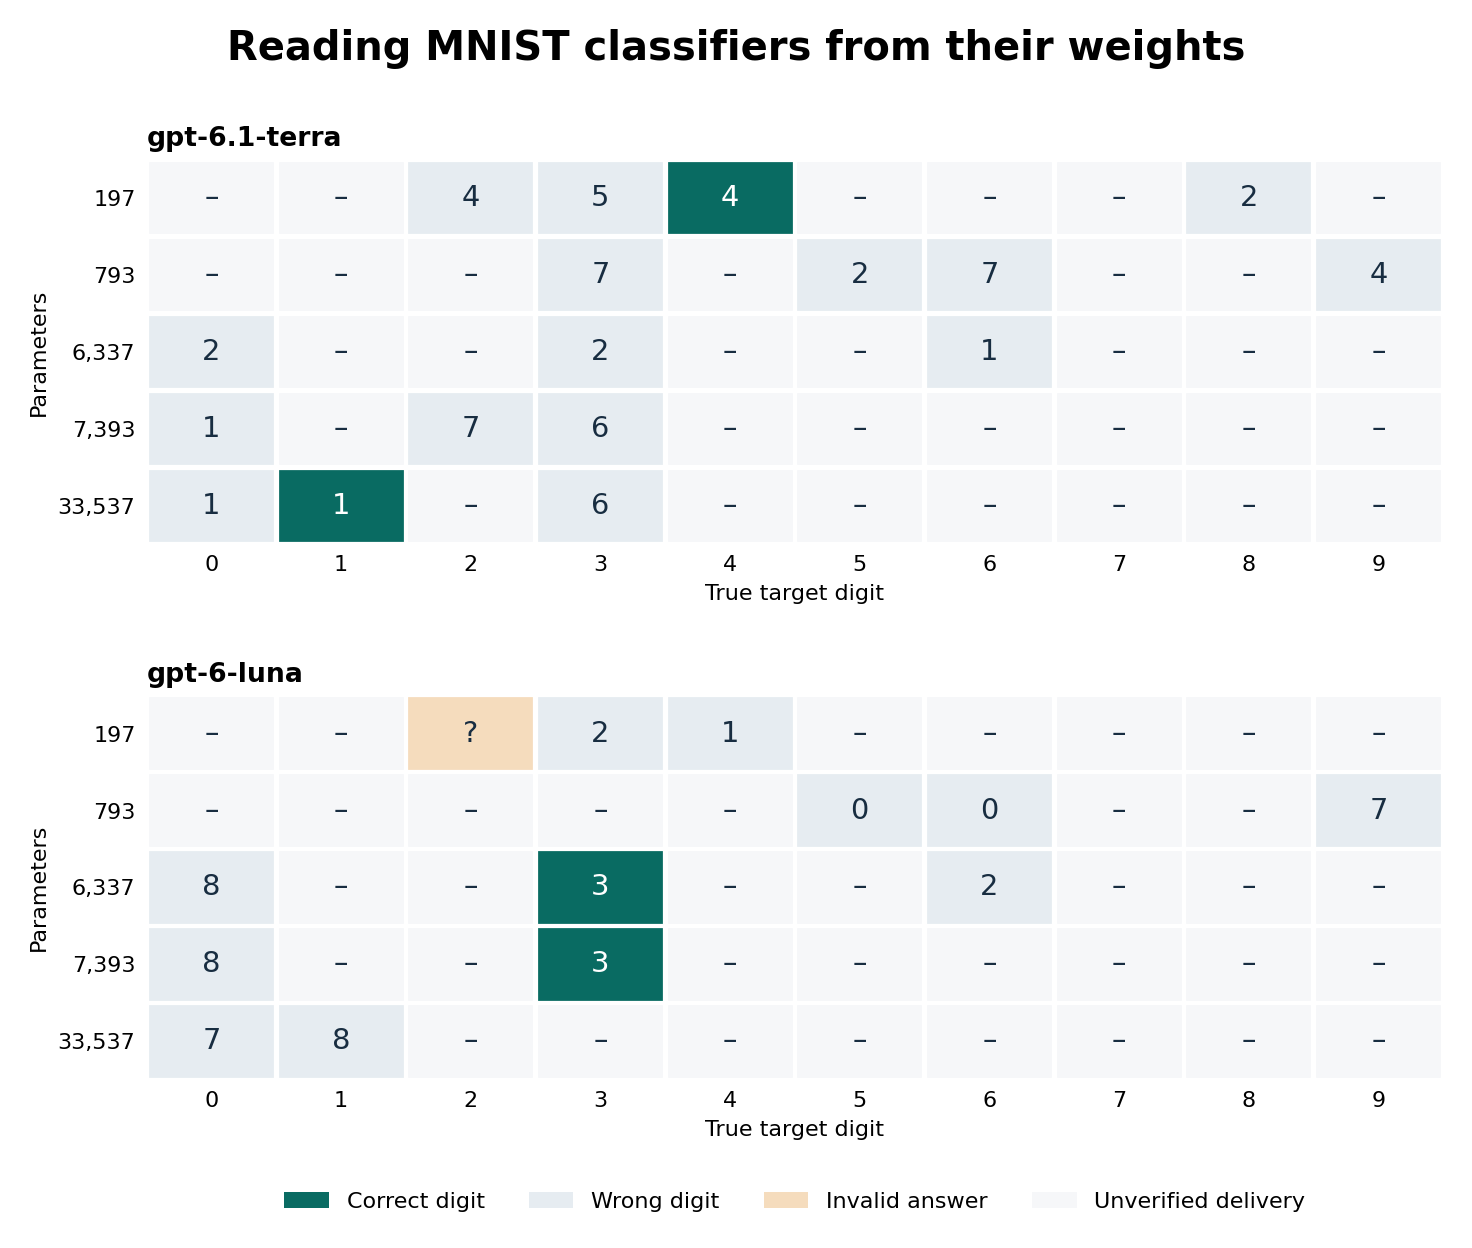
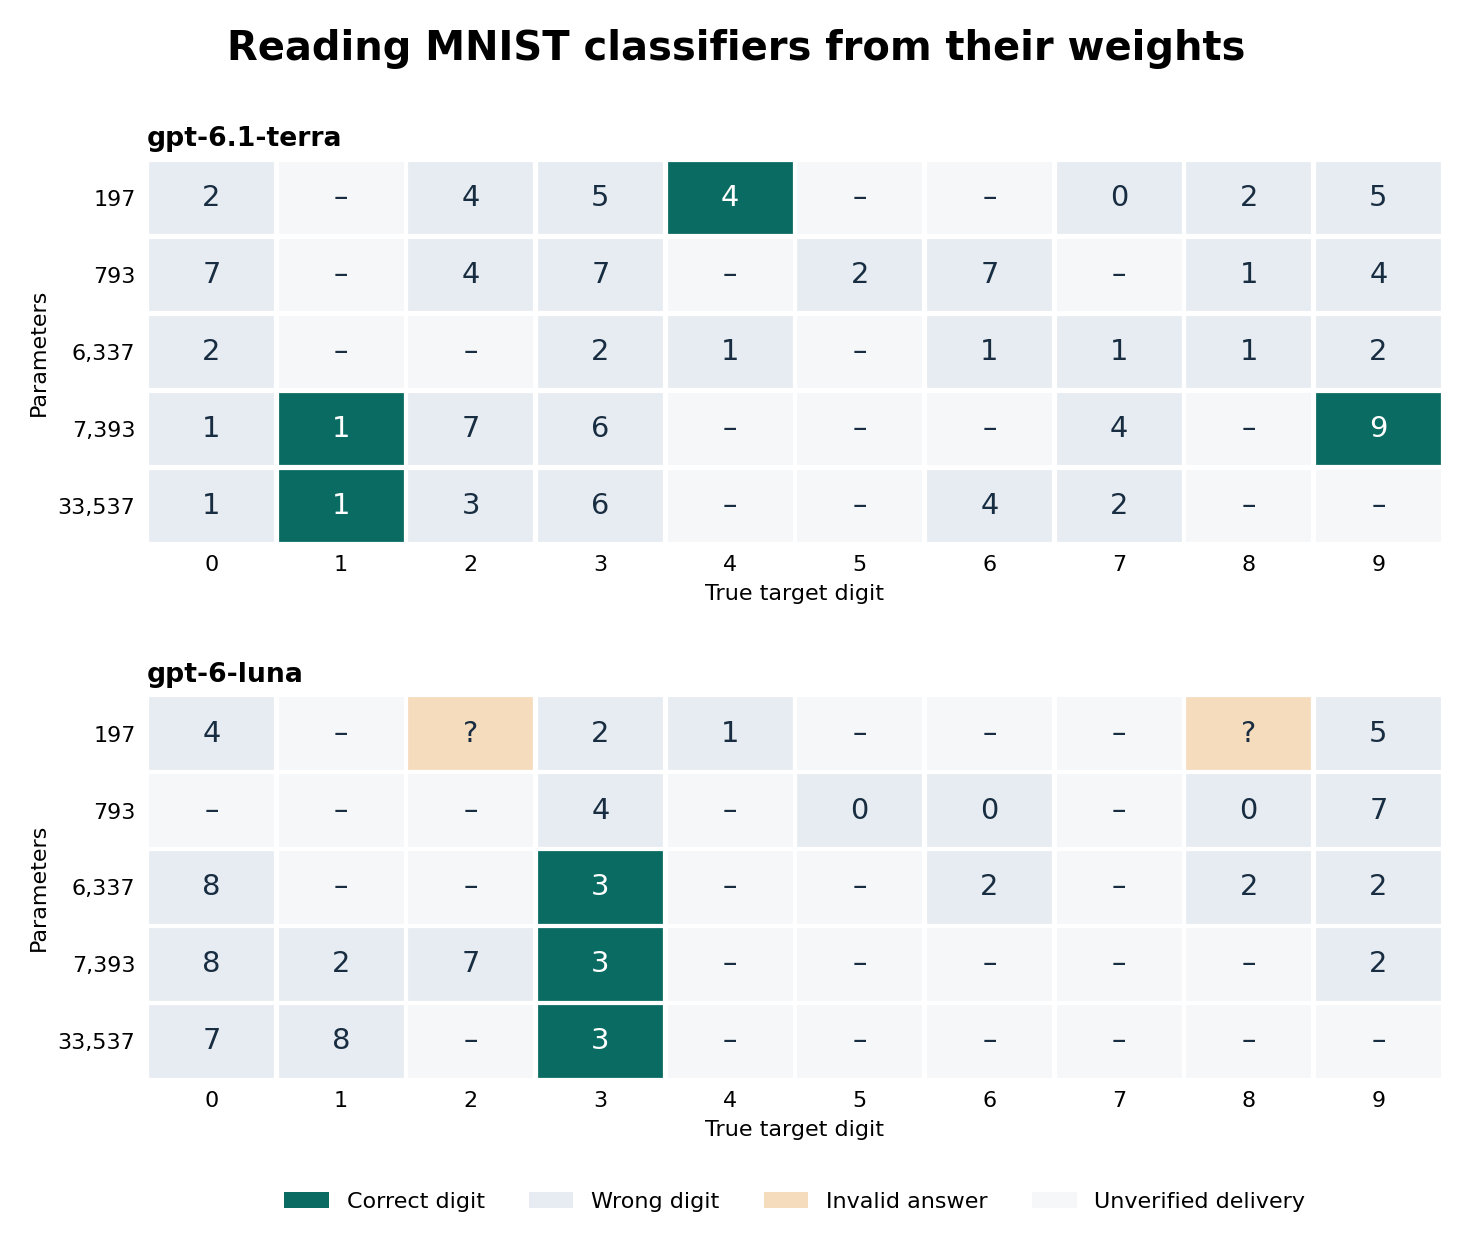
Preserve additional trial returns and distinguish protocol deviations

diff --git a/analyze.py b/analyze.py
@@ -61,7 +61,8 @@ def analyze():
         for model in MODELS:
             record = dict(id=uid, model=model, tier=trial["tier"], params=digits[uid]["params"] if uid in digits else 30,
                           o200k_base=sizes[uid]["o200k_base"], target=digits[uid]["digit"] if uid in digits else None,
-                          status="not_run", delivered=False, valid_answer=False, guess=None, correct=False,
+                          status="not_run", receipts_match=False, delivered=False, valid_answer=False, guess=None, correct=False,
+                          excluded_guess=None, excluded_would_match=None,
                           correct_values=None, max_abs_error=None)
             evaluated.append(record)
             path = OUT / model / (uid + ".json")
@@ -71,21 +72,26 @@ def analyze():
             assert (raw["model"], raw["id"], raw["prompt_sha256"]) == (model, uid, trial["sha256"])
             assert raw["agent"] not in used_agents, f"Reused respondent {raw['agent']}"
             used_agents.add(raw["agent"])
-            delivery = raw["status"] == "completed" and has_receipts(raw["raw"], trial["receipts"])
+            receipt_match = has_receipts(raw["raw"], trial["receipts"])
+            delivery = raw["status"] == "completed" and receipt_match
             assert raw["delivery_verified"] == delivery
-            record.update(status=raw["status"], delivered=delivery)
-            if not delivery:
-                continue
+            record.update(status=raw["status"], receipts_match=receipt_match, delivered=delivery)
             try:
                 envelope = read_answer(raw["raw"])
                 answer = envelope.get("answer") if isinstance(envelope, dict) else None
             except ValueError:
                 answer = None
+            digit_answer = (isinstance(answer, dict) and set(answer) == {"digit"}
+                           and type(answer["digit"]) is int and 0 <= answer["digit"] <= 9)
+            if not delivery:
+                if uid in digits and digit_answer:
+                    record.update(excluded_guess=answer["digit"], excluded_would_match=answer["digit"] == record["target"])
+                continue
             if uid in edits:
                 result = score(edits[uid], answer)
                 record.update(valid_answer=result["error"] is None, correct=result["passed"],
                               correct_values=result["correct_values"], max_abs_error=result["max_abs_error"])
-            elif isinstance(answer, dict) and set(answer) == {"digit"} and type(answer["digit"]) is int and 0 <= answer["digit"] <= 9:
+            elif digit_answer:
                 record.update(valid_answer=True, guess=answer["digit"], correct=answer["digit"] == record["target"])
     write_csv("trials.csv", evaluated)
     stats = []

diff --git a/controls.py b/controls.py
@@ -43,15 +43,52 @@ def activation_probe(archive):
     print("External five-examples-per-digit control:", sum(r["correct"] for r in output), "/", len(output))
 
 
+def illustrate(archive):
+    import matplotlib
+    matplotlib.use("Agg")
+    import matplotlib.pyplot as plt
+
+    targets = [0, 1, 8]
+    fixtures = {r["digit"]: r for r in lines(ROOT / "fixtures/manifest.jsonl") if r["tier"] == "linear"}
+    maps = []
+    for digit in targets:
+        path = ROOT / "fixtures/prompts" / (fixtures[digit]["id"] + ".txt")
+        maps.append(parse_prompt(path.read_text())[0][0].reshape(14, 14))
+    scale = max(np.abs(w).max() for w in maps)
+    fig, axes = plt.subplots(3, 3, figsize=(7, 6.4), layout="constrained")
+    with np.load(dataset_path(archive), allow_pickle=False) as d:
+        x, y = d["x_train"], d["y_train"]
+        test, labels = d["x_test"], d["y_test"]
+        for digit, weights, row in zip(targets, maps, axes, strict=True):
+            sample = pool_images(test[labels == digit][:1]).reshape(14, 14)
+            prototype = pool_images(x[y == digit]).mean(axis=0).reshape(14, 14)
+            for ax, array in zip(row[:2], [sample, prototype], strict=True):
+                ax.imshow(array, cmap="Greys", vmin=0, vmax=1, interpolation="nearest")
+            colored = row[2].imshow(weights, cmap="RdBu_r", vmin=-scale, vmax=scale, interpolation="nearest")
+            row[0].set_ylabel(f"Target {digit}", fontsize=12)
+            for ax in row:
+                ax.set_xticks([])
+                ax.set_yticks([])
+    for ax, label in zip(axes[0], ["Test example", "Mean training image", "Learned weights"], strict=True):
+        ax.set_title(label, fontsize=12)
+    fig.colorbar(colored, ax=list(axes[:, 2]), shrink=.72, label="Logit weight")
+    fig.suptitle("Inside a 197-parameter classifier", fontweight="bold", fontsize=16)
+    fig.savefig(ROOT / "results/linear_examples.png", dpi=160)
+    plt.close(fig)
+
+
 if __name__ == "__main__":
     parser = argparse.ArgumentParser(description=__doc__)
     sub = parser.add_subparsers(dest="mode", required=True)
     sub.add_parser("tokens")
     p = sub.add_parser("probe")
     p.add_argument("--data", type=Path, required=True)
+    sub.add_parser("illustrate").add_argument("--data", type=Path, required=True)
     args = parser.parse_args()
     (ROOT / "results").mkdir(exist_ok=True)
     if args.mode == "tokens":
         count_tokens()
-    else:
+    elif args.mode == "probe":
         activation_probe(args.data)
+    else:
+        illustrate(args.data)
